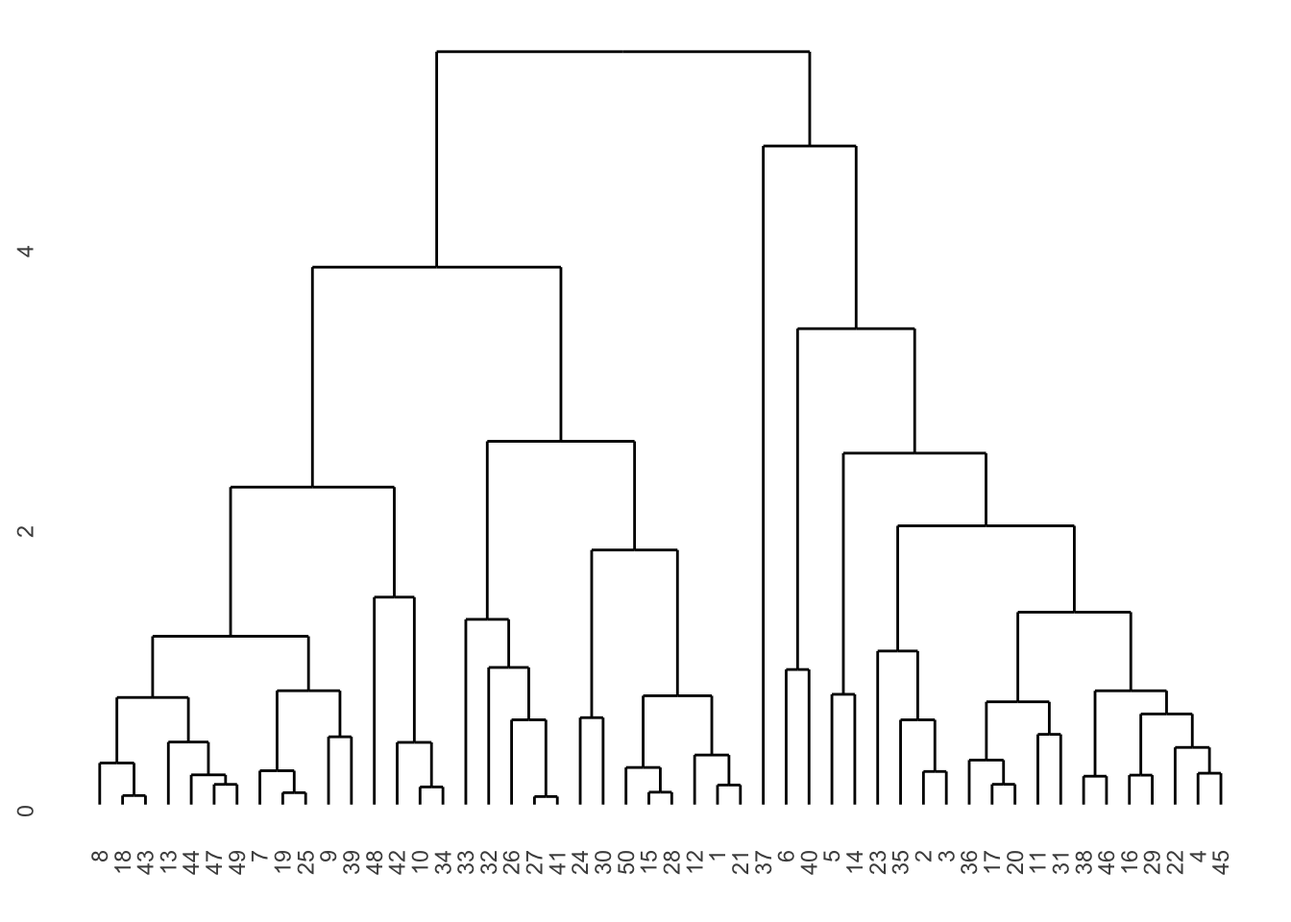
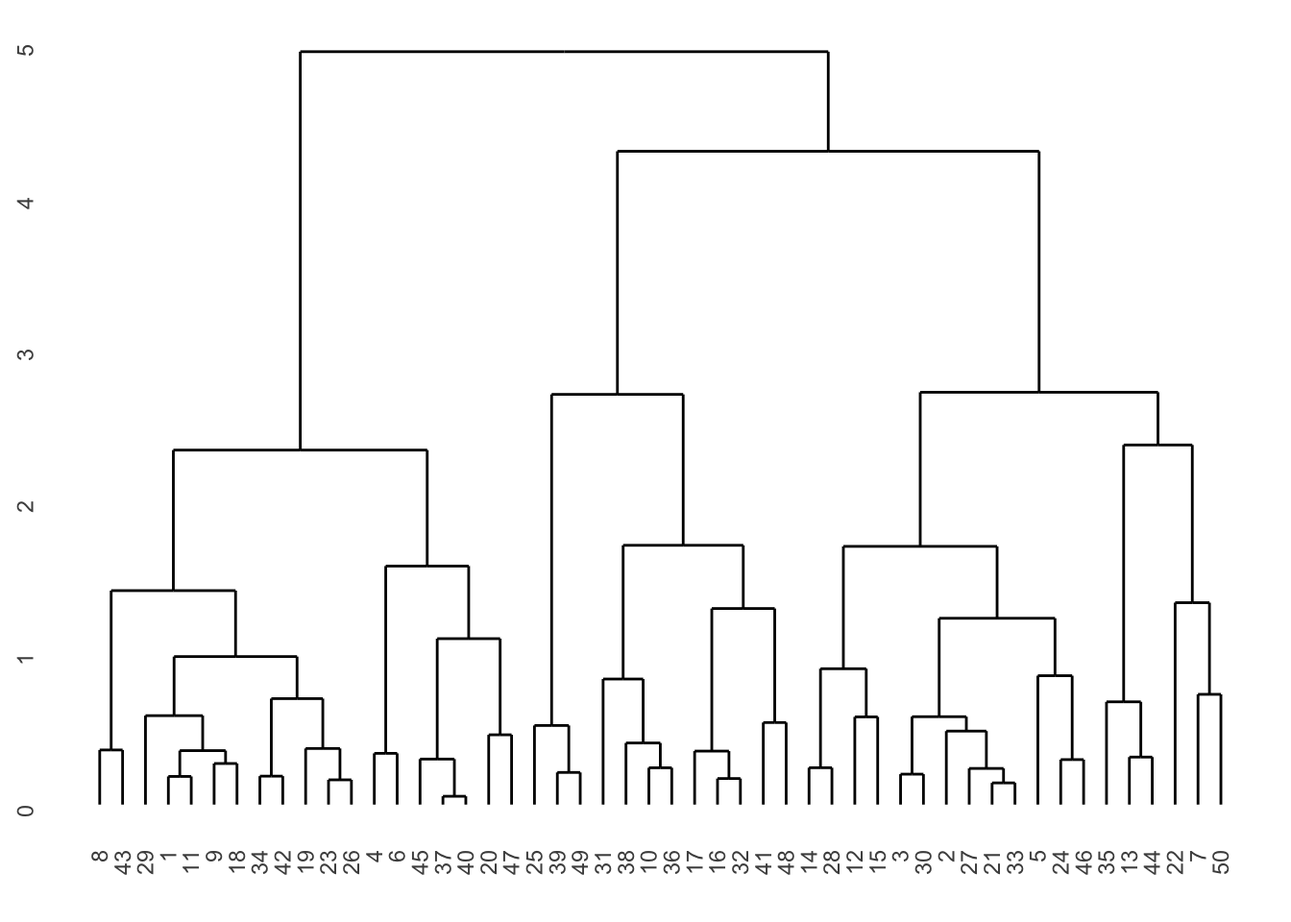
Update hierarchical clustering notes

diff --git a/content/notes/clustering.html b/content/notes/clustering.html
@@ -118,41 +118,6 @@ code > span.in { color: #60a0b0; font-weight: bold; font-style: italic; } /* Inf
 <div id="k-means-clustering" class="section level1">
 <h1><span class="header-section-number">2</span> <span class="math inline">\(K\)</span>-means clustering</h1>
 <p><span class="math inline">\(K\)</span>-means clustering is one approach to identifying distinct clusters within data. First we specify the number of <span class="math inline">\(K\)</span> clusters we want to estimate in the data, then assign each observation to precisely one of those <span class="math inline">\(K\)</span> clusters.</p>
-<div class="sourceCode"><pre class="sourceCode r"><code class="sourceCode r"><span class="co"># simulate 5 cluster data</span>
-<span class="co"># data source: https://theanlim.rbind.io/post/clustering-k-means-k-means-and-gganimate/</span>
-<span class="kw">set.seed</span>(<span class="dv">123</span>)
-
-x &lt;-<span class="st"> </span><span class="kw">list</span>(
-  <span class="st">`</span><span class="dt">1</span><span class="st">`</span> =<span class="st"> </span>MASS<span class="op">::</span><span class="kw">mvrnorm</span>(<span class="dt">n =</span> <span class="dv">300</span>, <span class="kw">c</span>(<span class="op">-</span><span class="dv">4</span>,<span class="dv">10</span>), <span class="kw">matrix</span>(<span class="kw">c</span>(<span class="fl">1.5</span>,<span class="dv">1</span>,<span class="dv">1</span>,<span class="fl">1.5</span>),<span class="dv">2</span>)),
-  <span class="st">`</span><span class="dt">2</span><span class="st">`</span> =<span class="st"> </span>MASS<span class="op">::</span><span class="kw">mvrnorm</span>(<span class="dt">n =</span> <span class="dv">300</span>, <span class="kw">c</span>(<span class="dv">5</span>,<span class="dv">7</span>), <span class="kw">matrix</span>(<span class="kw">c</span>(<span class="dv">1</span>,<span class="dv">2</span>,<span class="dv">2</span>,<span class="dv">6</span>),<span class="dv">2</span>)),
-  <span class="st">`</span><span class="dt">3</span><span class="st">`</span> =<span class="st"> </span>MASS<span class="op">::</span><span class="kw">mvrnorm</span>(<span class="dt">n =</span> <span class="dv">300</span>, <span class="kw">c</span>(<span class="op">-</span><span class="dv">1</span>,<span class="dv">1</span>), <span class="kw">matrix</span>(<span class="kw">c</span>(<span class="dv">4</span>,<span class="dv">0</span>,<span class="dv">0</span>,<span class="dv">4</span>),<span class="dv">2</span>)),
-  <span class="st">`</span><span class="dt">4</span><span class="st">`</span> =<span class="st"> </span>MASS<span class="op">::</span><span class="kw">mvrnorm</span>(<span class="dt">n =</span> <span class="dv">300</span>, <span class="kw">c</span>(<span class="dv">10</span>,<span class="op">-</span><span class="dv">10</span>), <span class="kw">matrix</span>(<span class="kw">c</span>(<span class="dv">4</span>,<span class="dv">0</span>,<span class="dv">0</span>,<span class="dv">4</span>),<span class="dv">2</span>)),
-  <span class="st">`</span><span class="dt">5</span><span class="st">`</span> =<span class="st"> </span>MASS<span class="op">::</span><span class="kw">mvrnorm</span>(<span class="dt">n =</span> <span class="dv">300</span>, <span class="kw">c</span>(<span class="dv">3</span>,<span class="op">-</span><span class="dv">3</span>), <span class="kw">matrix</span>(<span class="kw">c</span>(<span class="dv">4</span>,<span class="dv">0</span>,<span class="dv">0</span>,<span class="dv">4</span>),<span class="dv">2</span>))
-) <span class="op">%&gt;%</span>
-<span class="st">  </span><span class="kw">map_df</span>(as_tibble, <span class="dt">.id =</span> <span class="st">&quot;cluster&quot;</span>) <span class="op">%&gt;%</span>
-<span class="st">  </span><span class="kw">rename</span>(<span class="dt">x =</span> V1,
-         <span class="dt">y =</span> V2)
-
-<span class="co"># estimate k clusters</span>
-x.out &lt;-<span class="st"> </span>x <span class="op">%&gt;%</span>
-<span class="st">  </span><span class="kw">select</span>(<span class="op">-</span>cluster) <span class="op">%&gt;%</span>
-<span class="st">  </span><span class="kw">mutate</span>(<span class="dt">k2 =</span> <span class="kw">kmeans</span>(x, <span class="dv">2</span>, <span class="dt">nstart =</span> <span class="dv">20</span>)<span class="op">$</span>cluster,
-         <span class="dt">k3 =</span> <span class="kw">kmeans</span>(x, <span class="dv">3</span>, <span class="dt">nstart =</span> <span class="dv">20</span>)<span class="op">$</span>cluster,
-         <span class="dt">k4 =</span> <span class="kw">kmeans</span>(x, <span class="dv">4</span>, <span class="dt">nstart =</span> <span class="dv">20</span>)<span class="op">$</span>cluster,
-         <span class="dt">k5 =</span> <span class="kw">kmeans</span>(x, <span class="dv">5</span>, <span class="dt">nstart =</span> <span class="dv">20</span>)<span class="op">$</span>cluster,
-         <span class="dt">k6 =</span> <span class="kw">kmeans</span>(x, <span class="dv">6</span>, <span class="dt">nstart =</span> <span class="dv">20</span>)<span class="op">$</span>cluster,
-         <span class="dt">k7 =</span> <span class="kw">kmeans</span>(x, <span class="dv">6</span>, <span class="dt">nstart =</span> <span class="dv">20</span>)<span class="op">$</span>cluster)
-
-<span class="co"># plot clusters</span>
-x.out <span class="op">%&gt;%</span>
-<span class="st">  </span><span class="kw">gather</span>(K, pred, k2<span class="op">:</span>k7) <span class="op">%&gt;%</span>
-<span class="st">  </span><span class="kw">mutate</span>(<span class="dt">K =</span> <span class="kw">parse_number</span>(K),
-         <span class="dt">pred =</span> <span class="kw">factor</span>(pred)) <span class="op">%&gt;%</span>
-<span class="st">  </span><span class="kw">ggplot</span>(<span class="kw">aes</span>(x, y, <span class="dt">color =</span> pred)) <span class="op">+</span>
-<span class="st">  </span><span class="kw">facet_wrap</span>(<span class="op">~</span><span class="st"> </span>K, <span class="dt">labeller =</span> label_both) <span class="op">+</span>
-<span class="st">  </span><span class="kw">geom_point</span>() <span class="op">+</span>
-<span class="st">  </span><span class="kw">scale_color_brewer</span>(<span class="dt">type =</span> <span class="st">&quot;qual&quot;</span>, <span class="dt">palette =</span> <span class="st">&quot;Dark2&quot;</span>) <span class="op">+</span>
-<span class="st">  </span><span class="kw">theme</span>(<span class="dt">legend.position =</span> <span class="st">&quot;none&quot;</span>)</code></pre></div>
 <p><img src="/notes/clustering_files/figure-html/kmeans-1.png" width="672" /></p>
 <p>Let <span class="math inline">\(C_1, C_2, \dots, C_K\)</span> denote sets containing the indicies of the observations in each cluster. <span class="math inline">\(K\)</span>-means clustering defines a good cluster as one for which within-cluster variation is as small as possible. So we want to minimize the within-cluster variation defined by some function <span class="math inline">\(W(C_K)\)</span> that identifies variation:</p>
 <p><span class="math display">\[\min_{C_1, C_2, \dots, C_K} \left\{ \sum_{k = 1}^K W(C_k) \right\}\]</span></p>
@@ -165,112 +130,7 @@ x.out <span class="op">%&gt;%</span>
 <li>Assign each observation to the cluster whose centroid is closest as defined by Euclidean distance.</li>
 </ol>
 <p>Each time we do this observations will move around and join different clusters because the initial assignments were made entirely at random. As we iterate over this process, the cluster assignments will become more stable and eventually stop entirely. This is when we reach the local optimum.</p>
-<div class="sourceCode"><pre class="sourceCode r"><code class="sourceCode r"><span class="co"># animation source: https://smorbieu.gitlab.io/animate-intermediate-results-of-your-algorithm/</span>
-<span class="co"># initialize clustering model</span>
-dataset &lt;-<span class="st"> </span>x
-dataset &lt;-<span class="st"> </span>dataset <span class="op">%&gt;%</span>
-<span class="st">  </span><span class="kw">mutate</span>(<span class="dt">sample =</span> <span class="kw">row_number</span>())
-centroids &lt;-<span class="st"> </span>dataset <span class="op">%&gt;%</span>
-<span class="st">  </span><span class="kw">sample_n</span>(<span class="dv">5</span>) <span class="op">%&gt;%</span>
-<span class="st">  </span><span class="kw">mutate</span>(<span class="dt">cluster =</span> <span class="kw">row_number</span>()) <span class="op">%&gt;%</span>
-<span class="st">  </span><span class="kw">select</span>(x, y, cluster)
-
-<span class="co"># assignment step</span>
-assignmentStep &lt;-<span class="st"> </span><span class="cf">function</span>(samplesDf, centroids) {
-  d &lt;-<span class="st"> </span>samplesDf <span class="op">%&gt;%</span>
-<span class="st">    </span><span class="kw">select</span>(x, y, sample)
-  
-  repCentroids &lt;-<span class="st"> </span><span class="kw">bind_rows</span>(<span class="kw">replicate</span>(<span class="kw">nrow</span>(d), centroids, <span class="dt">simplify =</span> <span class="ot">FALSE</span>)) <span class="op">%&gt;%</span>
-<span class="st">    </span><span class="kw">transmute</span>(<span class="dt">xCentroid =</span> x, <span class="dt">yCentroid =</span> y, cluster)
-  
-  d <span class="op">%&gt;%</span>
-<span class="st">    </span><span class="kw">slice</span>(<span class="kw">rep</span>(<span class="dv">1</span><span class="op">:</span><span class="kw">n</span>(), <span class="dt">each =</span> <span class="dv">5</span>)) <span class="op">%&gt;%</span>
-<span class="st">    </span><span class="kw">bind_cols</span>(repCentroids) <span class="op">%&gt;%</span>
-<span class="st">    </span><span class="kw">mutate</span>(<span class="dt">s =</span> (x <span class="op">-</span><span class="st"> </span>xCentroid)<span class="op">^</span><span class="dv">2</span> <span class="op">+</span><span class="st"> </span>(y <span class="op">-</span><span class="st"> </span>yCentroid)<span class="op">^</span><span class="dv">2</span>) <span class="op">%&gt;%</span>
-<span class="st">    </span><span class="kw">group_by</span>(sample) <span class="op">%&gt;%</span>
-<span class="st">    </span><span class="kw">top_n</span>(<span class="dv">1</span>, <span class="op">-</span>s) <span class="op">%&gt;%</span>
-<span class="st">    </span><span class="kw">select</span>(sample, cluster, x, y)
-}
-
-<span class="co"># update step</span>
-updateStep &lt;-<span class="st"> </span><span class="cf">function</span>(samplesDf) {
-  samplesDf <span class="op">%&gt;%</span>
-<span class="st">    </span><span class="kw">group_by</span>(cluster) <span class="op">%&gt;%</span>
-<span class="st">    </span><span class="kw">summarise</span>(<span class="dt">x =</span> <span class="kw">mean</span>(x), <span class="dt">y =</span> <span class="kw">mean</span>(y))
-}
-
-<span class="co"># iterations</span>
-maxIter &lt;-<span class="st"> </span><span class="dv">30</span>
-d &lt;-<span class="st"> </span><span class="kw">data.frame</span>(
-  <span class="dt">sample =</span> <span class="kw">c</span>(),
-  <span class="dt">cluster =</span> <span class="kw">c</span>(),
-  <span class="dt">x =</span> <span class="kw">c</span>(),
-  <span class="dt">y =</span> <span class="kw">c</span>(),
-  <span class="dt">step =</span> <span class="kw">c</span>()
-)
-
-dCentroids &lt;-<span class="st"> </span><span class="kw">data.frame</span>(
-  <span class="dt">cluster =</span> <span class="kw">c</span>(),
-  <span class="dt">x =</span> <span class="kw">c</span>(),
-  <span class="dt">y =</span> <span class="kw">c</span>(),
-  <span class="dt">step =</span> <span class="kw">c</span>()
-)
-
-<span class="cf">for</span> (i <span class="cf">in</span> <span class="dv">1</span><span class="op">:</span>maxIter) {
-  df &lt;-<span class="st"> </span><span class="kw">assignmentStep</span>(dataset, centroids)
-  updatedCentroids &lt;-<span class="st"> </span><span class="kw">updateStep</span>(df)
-  
-  <span class="cf">if</span> (<span class="kw">all</span>(updatedCentroids <span class="op">==</span><span class="st"> </span>centroids )) {
-    <span class="cf">break</span>
-  }
-  
-  centroids &lt;-<span class="st"> </span>updatedCentroids
-  d &lt;-<span class="st"> </span><span class="kw">bind_rows</span>(d, df <span class="op">%&gt;%</span>
-<span class="st">                   </span><span class="kw">mutate</span>(<span class="dt">step =</span> i))
-  dCentroids &lt;-<span class="st"> </span><span class="kw">bind_rows</span>(dCentroids, centroids <span class="op">%&gt;%</span>
-<span class="st">                            </span><span class="kw">mutate</span>(<span class="dt">step =</span> i))
-}
-
-<span class="co"># plot change</span>
-<span class="co"># a &lt;- ggplot(d, aes(x = x, y = y, color = factor(cluster), shape = factor(cluster))) +</span>
-<span class="co">#   labs(title = &quot;Iteration: {previous_state}&quot;,</span>
-<span class="co">#        x = expression(X[1]),</span>
-<span class="co">#        y = expression(X[2]),</span>
-<span class="co">#        color = &quot;Cluster&quot;,</span>
-<span class="co">#        shape = &quot;Cluster&quot;) +</span>
-<span class="co">#   geom_point(aes(group = sample), alpha = .4) +</span>
-<span class="co">#   geom_point(data = dCentroids, shape = 10, size = 5) +</span>
-<span class="co">#   scale_color_brewer(type = &quot;qual&quot;, palette = &quot;Dark2&quot;) +</span>
-<span class="co">#   theme(legend.position = &quot;bottom&quot;) +</span>
-<span class="co">#   transition_states(step,</span>
-<span class="co">#                     transition_length = 1,</span>
-<span class="co">#                     state_length = 2,</span>
-<span class="co">#                     wrap = FALSE) +</span>
-<span class="co">#   enter_recolor() +</span>
-<span class="co">#   exit_recolor()</span>
-<span class="co"># </span>
-<span class="co"># animate(a, duration = 20, start_pause = 10, end_pause = 10)</span></code></pre></div>
 <p>Since the local optimum is based on the initial (random) assignments, we run this algorithm multiple times from different random starting configurations and select the best solution (the one with the lowest total within-cluster variation).</p>
-<div class="sourceCode"><pre class="sourceCode r"><code class="sourceCode r">kmean.out &lt;-<span class="st"> </span><span class="kw">rerun</span>(<span class="dv">6</span>, <span class="kw">kmeans</span>(x <span class="op">%&gt;%</span>
-<span class="st">                               </span><span class="kw">select</span>(<span class="op">-</span>cluster), <span class="dv">5</span>, <span class="dt">nstart =</span> <span class="dv">1</span>))
-withinss &lt;-<span class="st"> </span><span class="kw">rep</span>(<span class="kw">map_chr</span>(kmean.out, <span class="op">~</span><span class="st"> </span>.<span class="op">$</span>tot.withinss), <span class="dt">each =</span> <span class="kw">nrow</span>(x))
-
-kmean.out <span class="op">%&gt;%</span>
-<span class="st">  </span><span class="kw">map_df</span>(<span class="op">~</span><span class="st"> </span><span class="kw">as_tibble</span>(.<span class="op">$</span>cluster), <span class="dt">.id =</span> <span class="st">&quot;id&quot;</span>) <span class="op">%&gt;%</span>
-<span class="st">  </span><span class="kw">bind_cols</span>(<span class="kw">bind_rows</span>(x, x, x, x, x, x)) <span class="op">%&gt;%</span>
-<span class="st">  </span><span class="kw">mutate</span>(<span class="dt">withinss =</span> <span class="kw">str_c</span>(<span class="st">&quot;Within SS = &quot;</span>, withinss),
-         <span class="dt">id =</span> <span class="kw">str_c</span>(<span class="st">&quot;Attempt #&quot;</span>, id),
-         <span class="dt">value =</span> <span class="kw">factor</span>(value)) <span class="op">%&gt;%</span>
-<span class="st">  </span><span class="kw">ggplot</span>(<span class="kw">aes</span>(x, y, <span class="dt">color =</span> value)) <span class="op">+</span>
-<span class="st">  </span><span class="kw">facet_wrap</span>(<span class="op">~</span><span class="st"> </span>id <span class="op">+</span><span class="st"> </span>withinss, <span class="dt">ncol =</span> <span class="dv">3</span>, <span class="dt">labeller =</span> <span class="kw">label_wrap_gen</span>(<span class="dt">multi_line =</span> <span class="ot">TRUE</span>)) <span class="op">+</span>
-<span class="st">  </span><span class="kw">geom_point</span>() <span class="op">+</span>
-<span class="st">  </span><span class="kw">scale_color_brewer</span>(<span class="dt">type =</span> <span class="st">&quot;qual&quot;</span>, <span class="dt">palette =</span> <span class="st">&quot;Dark2&quot;</span>, <span class="dt">guide =</span> <span class="ot">FALSE</span>) <span class="op">+</span>
-<span class="st">  </span><span class="kw">labs</span>(<span class="dt">title =</span> <span class="st">&quot;Convergence of k-means cluster algorithm&quot;</span>,
-       <span class="dt">x =</span> <span class="kw">expression</span>(X[<span class="dv">1</span>]),
-       <span class="dt">y =</span> <span class="kw">expression</span>(X[<span class="dv">2</span>])) <span class="op">+</span>
-<span class="st">  </span><span class="kw">theme</span>(<span class="dt">legend.position =</span> <span class="st">&quot;none&quot;</span>)</code></pre></div>
-<pre><code>## Warning: Calling `as_tibble()` on a vector is discouraged, because the behavior is likely to change in the future. Use `enframe(name = NULL)` instead.
-## This warning is displayed once per session.</code></pre>
 <p><img src="/notes/clustering_files/figure-html/kmeans-sim-start-1.png" width="672" /></p>
 <p>This is basically like starting the algorithm with a different random seed each time. In the above example I ran <span class="math inline">\(K\)</span>-mean clustering with <span class="math inline">\(K=5\)</span> six times with different starting seed values. In four of the iterations, the algorithm converged on the same local optimum solution, while the other two times the algorithm converged on a local optimum with a larger sum of within-cluster variation.</p>
 </div>
@@ -484,66 +344,16 @@ final &lt;-<span class="st"> </span><span class="kw">kmeans</span>(df, <span cla
 <div id="interpreting-dendrograms" class="section level1">
 <h1><span class="header-section-number">6</span> Interpreting dendrograms</h1>
 <p>Here we plot a dendrogram using simulated data, consisting of 1500 observations in two-dimensional space. We simulate three natural classes in the data, but in the real-world you would not know that.</p>
-<div class="sourceCode"><pre class="sourceCode r"><code class="sourceCode r"><span class="co"># generate data</span>
-x &lt;-<span class="st"> </span><span class="kw">tibble</span>(<span class="dt">x1 =</span> <span class="kw">rnorm</span>(<span class="dv">50</span>) <span class="op">+</span><span class="st"> </span><span class="dv">3</span>,
-                <span class="dt">x2 =</span> <span class="kw">rnorm</span>(<span class="dv">50</span>) <span class="op">-</span><span class="st"> </span><span class="dv">4</span>,
-                <span class="dt">y =</span> <span class="kw">ifelse</span>(x1 <span class="op">&lt;</span><span class="st"> </span><span class="dv">3</span>, <span class="st">&quot;1&quot;</span>,
-                           <span class="kw">ifelse</span>(x2 <span class="op">&gt;</span><span class="st"> </span><span class="op">-</span><span class="dv">4</span>, <span class="st">&quot;2&quot;</span>, <span class="st">&quot;3&quot;</span>)))
-
-<span class="kw">ggplot</span>(x, <span class="kw">aes</span>(x1, x2, <span class="dt">color =</span> y)) <span class="op">+</span>
-<span class="st">  </span><span class="kw">geom_point</span>() <span class="op">+</span>
-<span class="st">  </span><span class="kw">labs</span>(<span class="dt">title =</span> <span class="st">&quot;Simulated data&quot;</span>,
-       <span class="dt">x =</span> <span class="kw">expression</span>(X[<span class="dv">1</span>]),
-       <span class="dt">y =</span> <span class="kw">expression</span>(X[<span class="dv">2</span>])) <span class="op">+</span>
-<span class="st">  </span><span class="kw">theme</span>(<span class="dt">legend.position =</span> <span class="st">&quot;none&quot;</span>)</code></pre></div>
 <p><img src="/notes/clustering_files/figure-html/dendro-sim-1.png" width="672" /></p>
 <p>Suppose that we observe the data without class labels and want to perform hierarchical clustering on the data. The result is plotted below.</p>
-<div class="sourceCode"><pre class="sourceCode r"><code class="sourceCode r"><span class="co"># estimate hierarchical cluster</span>
-hc.complete &lt;-<span class="st"> </span><span class="kw">hclust</span>(<span class="kw">dist</span>(x), <span class="dt">method =</span> <span class="st">&quot;complete&quot;</span>)
-
-<span class="co"># plot</span>
-<span class="kw">ggdendrogram</span>(hc.complete)</code></pre></div>
 <p><img src="/notes/clustering_files/figure-html/dendro-cluster-1.png" width="672" /></p>
 <p>Like with decision trees, we have <strong>leafs</strong> and <strong>branches</strong>. Each leaf is labeled with the observation id number. Rather than reading the dendrogram from the top-down, we read it from the bottom-up. Each observation is represented by a leaf. As we move up the tree, leafs <strong>fuse</strong> into branches. These are observations that are similar to one another, similarity generally being defined by Euclidean distance. Observations that fuse together near the bottom of the tree are generally similar to one another, whereas observations that fuse near the top of the tree are dissimilar. The height on the graph where the fusion occurs defines how similar or dissimilar any two observations are. The larger the value, the more dissimilar they are. Rather than paying attention to the proximity of observations along the horizontal axis, we should instead focus on the location of observations relative to the vertical axis.</p>
 <p>From this dendrogram we can assign observations to clusters. To generate clusters, we make a horizontal cut somewhere on the dendrogram, severing the tree into multiple subtrees. The height of the cut will dictate how many clusters are formed. For instance, cutting the tree at a height of 4 splits the dendrogram into two subtrees, and therefore two clusters:</p>
-<div class="sourceCode"><pre class="sourceCode r"><code class="sourceCode r">h &lt;-<span class="st"> </span><span class="dv">4</span>
-<span class="co"># extract dendro data</span>
-hcdata &lt;-<span class="st"> </span><span class="kw">dendro_data</span>(hc.complete)
-hclabs &lt;-<span class="st"> </span><span class="kw">label</span>(hcdata) <span class="op">%&gt;%</span>
-<span class="st">  </span><span class="kw">left_join</span>(<span class="kw">tibble</span>(<span class="dt">label =</span> <span class="kw">as.factor</span>(<span class="kw">seq.int</span>(<span class="kw">nrow</span>(x))),
-                       <span class="dt">cl =</span> <span class="kw">as.factor</span>(<span class="kw">cutree</span>(hc.complete, <span class="dt">h =</span> h))))</code></pre></div>
-<pre><code>## Joining, by = &quot;label&quot;</code></pre>
-<pre><code>## Warning: Column `label` joining factors with different levels, coercing to
-## character vector</code></pre>
-<div class="sourceCode"><pre class="sourceCode r"><code class="sourceCode r"><span class="co"># plot dendrogram</span>
-<span class="kw">ggdendrogram</span>(hc.complete, <span class="dt">labels =</span> <span class="ot">FALSE</span>) <span class="op">+</span>
-<span class="st">  </span><span class="kw">geom_text</span>(<span class="dt">data =</span> hclabs,
-            <span class="kw">aes</span>(<span class="dt">label =</span> label, <span class="dt">x =</span> x, <span class="dt">y =</span> <span class="dv">0</span>, <span class="dt">color =</span> cl),
-            <span class="dt">vjust =</span> .<span class="dv">5</span>, <span class="dt">angle =</span> <span class="dv">90</span>) <span class="op">+</span>
-<span class="st">  </span><span class="kw">geom_hline</span>(<span class="dt">yintercept =</span> h, <span class="dt">linetype =</span> <span class="dv">2</span>) <span class="op">+</span>
-<span class="st">  </span><span class="kw">theme</span>(<span class="dt">axis.text.x =</span> <span class="kw">element_blank</span>(),
-        <span class="dt">legend.position =</span> <span class="st">&quot;none&quot;</span>)</code></pre></div>
 <p><img src="/notes/clustering_files/figure-html/dendro-cut-4-1.png" width="672" /></p>
 <p>Alternatively we could split it lower, for instance at 3:</p>
-<div class="sourceCode"><pre class="sourceCode r"><code class="sourceCode r">h &lt;-<span class="st"> </span><span class="dv">3</span>
-<span class="co"># extract dendro data</span>
-hcdata &lt;-<span class="st"> </span><span class="kw">dendro_data</span>(hc.complete)
-hclabs &lt;-<span class="st"> </span><span class="kw">label</span>(hcdata) <span class="op">%&gt;%</span>
-<span class="st">  </span><span class="kw">left_join</span>(<span class="kw">tibble</span>(<span class="dt">label =</span> <span class="kw">as.factor</span>(<span class="kw">seq.int</span>(<span class="kw">nrow</span>(x))),
-                       <span class="dt">cl =</span> <span class="kw">as.factor</span>(<span class="kw">cutree</span>(hc.complete, <span class="dt">h =</span> h))))</code></pre></div>
-<pre><code>## Joining, by = &quot;label&quot;</code></pre>
-<pre><code>## Warning: Column `label` joining factors with different levels, coercing to
-## character vector</code></pre>
-<div class="sourceCode"><pre class="sourceCode r"><code class="sourceCode r"><span class="co"># plot dendrogram</span>
-<span class="kw">ggdendrogram</span>(hc.complete, <span class="dt">labels =</span> <span class="ot">FALSE</span>) <span class="op">+</span>
-<span class="st">  </span><span class="kw">geom_text</span>(<span class="dt">data =</span> hclabs,
-            <span class="kw">aes</span>(<span class="dt">label =</span> label, <span class="dt">x =</span> x, <span class="dt">y =</span> <span class="dv">0</span>, <span class="dt">color =</span> cl),
-            <span class="dt">vjust =</span> .<span class="dv">5</span>, <span class="dt">angle =</span> <span class="dv">90</span>) <span class="op">+</span>
-<span class="st">  </span><span class="kw">geom_hline</span>(<span class="dt">yintercept =</span> h, <span class="dt">linetype =</span> <span class="dv">2</span>) <span class="op">+</span>
-<span class="st">  </span><span class="kw">theme</span>(<span class="dt">axis.text.x =</span> <span class="kw">element_blank</span>(),
-        <span class="dt">legend.position =</span> <span class="st">&quot;none&quot;</span>)</code></pre></div>
 <p><img src="/notes/clustering_files/figure-html/dendro-cut-3-1.png" width="672" /></p>
-<p>Generating a larger number of clusters. Determining the optimal number of clusters is generally left to the discretion of the researcher based on the height of the fusions and desired number of clusters. Again, this is unsupervised learning <strong>so there is no single correct number of clusters</strong>.</p>
+<p>Generating a larger number of clusters. Determining the optimal number of clusters is generally left to the discretion of the researcher based on the height of the fusions and desired number of clusters. Again, this is unsupervised learning <strong>so there is no single correct number of clusters</strong>, but we can use the same metrics as earlier to try and provide some statistical support for our decision.</p>
+<p><img src="/notes/clustering_files/figure-html/dendro-cut-optimal-1.png" width="672" /><img src="/notes/clustering_files/figure-html/dendro-cut-optimal-2.png" width="672" /><img src="/notes/clustering_files/figure-html/dendro-cut-optimal-3.png" width="672" /></p>
 </div>
 <div id="estimating-hierarchical-clusters" class="section level1">
 <h1><span class="header-section-number">7</span> Estimating hierarchical clusters</h1>
@@ -564,20 +374,7 @@ hclabs &lt;-<span class="st"> </span><span class="kw">label</span>(hcdata) <span
 <li><strong>Centroid</strong> - compute the dissimilarity between the centroid (a mean vector of length <span class="math inline">\(p\)</span>) for cluster A and cluster B.</li>
 </ol>
 <p>Each linkage approach leads to different hierarchical clusters:</p>
-<div class="sourceCode"><pre class="sourceCode r"><code class="sourceCode r">hc.complete &lt;-<span class="st"> </span><span class="kw">hclust</span>(<span class="kw">dist</span>(x), <span class="dt">method =</span> <span class="st">&quot;complete&quot;</span>)
-hc.single &lt;-<span class="st"> </span><span class="kw">hclust</span>(<span class="kw">dist</span>(x), <span class="dt">method =</span> <span class="st">&quot;single&quot;</span>)
-hc.average &lt;-<span class="st"> </span><span class="kw">hclust</span>(<span class="kw">dist</span>(x), <span class="dt">method =</span> <span class="st">&quot;average&quot;</span>)
-
-<span class="co"># plot</span>
-<span class="kw">ggdendrogram</span>(hc.complete) <span class="op">+</span>
-<span class="st">  </span><span class="kw">labs</span>(<span class="dt">title =</span> <span class="st">&quot;Complete linkage&quot;</span>)</code></pre></div>
-<p><img src="/notes/clustering_files/figure-html/dendro-compare-linkage-1.png" width="672" /></p>
-<div class="sourceCode"><pre class="sourceCode r"><code class="sourceCode r"><span class="kw">ggdendrogram</span>(hc.single) <span class="op">+</span>
-<span class="st">  </span><span class="kw">labs</span>(<span class="dt">title =</span> <span class="st">&quot;Single linkage&quot;</span>)</code></pre></div>
-<p><img src="/notes/clustering_files/figure-html/dendro-compare-linkage-2.png" width="672" /></p>
-<div class="sourceCode"><pre class="sourceCode r"><code class="sourceCode r"><span class="kw">ggdendrogram</span>(hc.average) <span class="op">+</span>
-<span class="st">  </span><span class="kw">labs</span>(<span class="dt">title =</span> <span class="st">&quot;Average linkage&quot;</span>)</code></pre></div>
-<p><img src="/notes/clustering_files/figure-html/dendro-compare-linkage-3.png" width="672" /></p>
+<p><img src="/notes/clustering_files/figure-html/dendro-compare-linkage-1.png" width="672" /><img src="/notes/clustering_files/figure-html/dendro-compare-linkage-2.png" width="672" /><img src="/notes/clustering_files/figure-html/dendro-compare-linkage-3.png" width="672" /></p>
 </div>
 <div id="session-info" class="section level1 toc-ignore">
 <h1><span class="header-section-number">8</span> Session Info</h1>
@@ -629,7 +426,6 @@ hc.average &lt;-<span class="st"> </span><span class="kw">hclust</span>(<span cl
 ##  gganimate     * 1.0.2      2019-03-03 [1]
 ##  ggdendro      * 0.1-20     2019-02-21 [1]
 ##  ggplot2       * 3.1.0      2018-10-25 [1]
-##  ggpubr          0.2        2018-11-15 [1]
 ##  ggrepel         0.8.0      2018-05-09 [2]
 ##  ggridges        0.5.1      2018-09-27 [2]
 ##  glue            1.3.0      2018-07-17 [2]
@@ -774,7 +570,6 @@ hc.average &lt;-<span class="st"> </span><span class="kw">hclust</span>(<span cl
 ##  CRAN (R 3.5.0)                      
 ##  CRAN (R 3.5.2)                      
 ##  Github (bensoltoff/ggdendro@9c9c6e7)
-##  CRAN (R 3.5.0)                      
 ##  CRAN (R 3.5.0)                      
 ##  CRAN (R 3.5.0)                      
 ##  CRAN (R 3.5.0)                      
